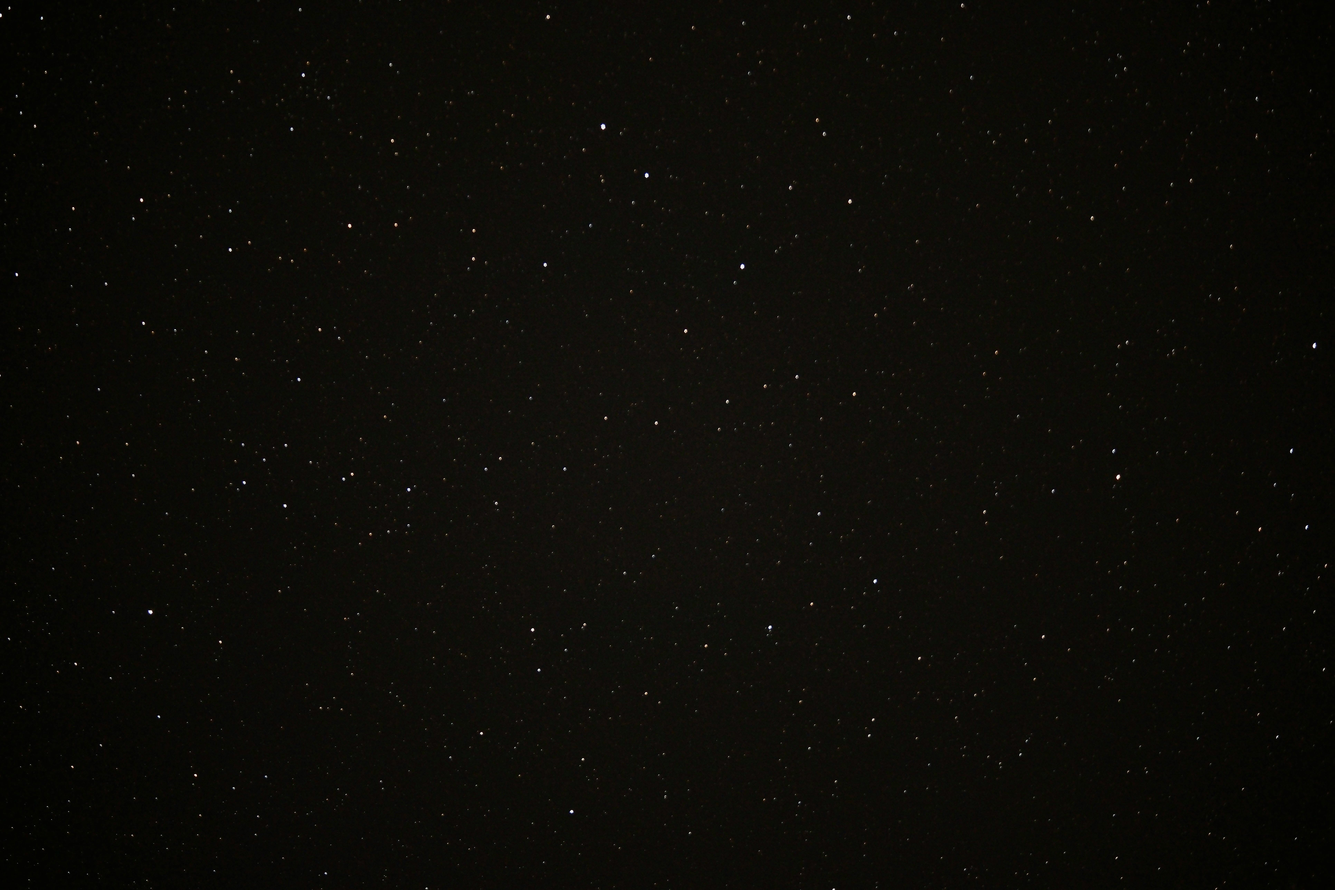
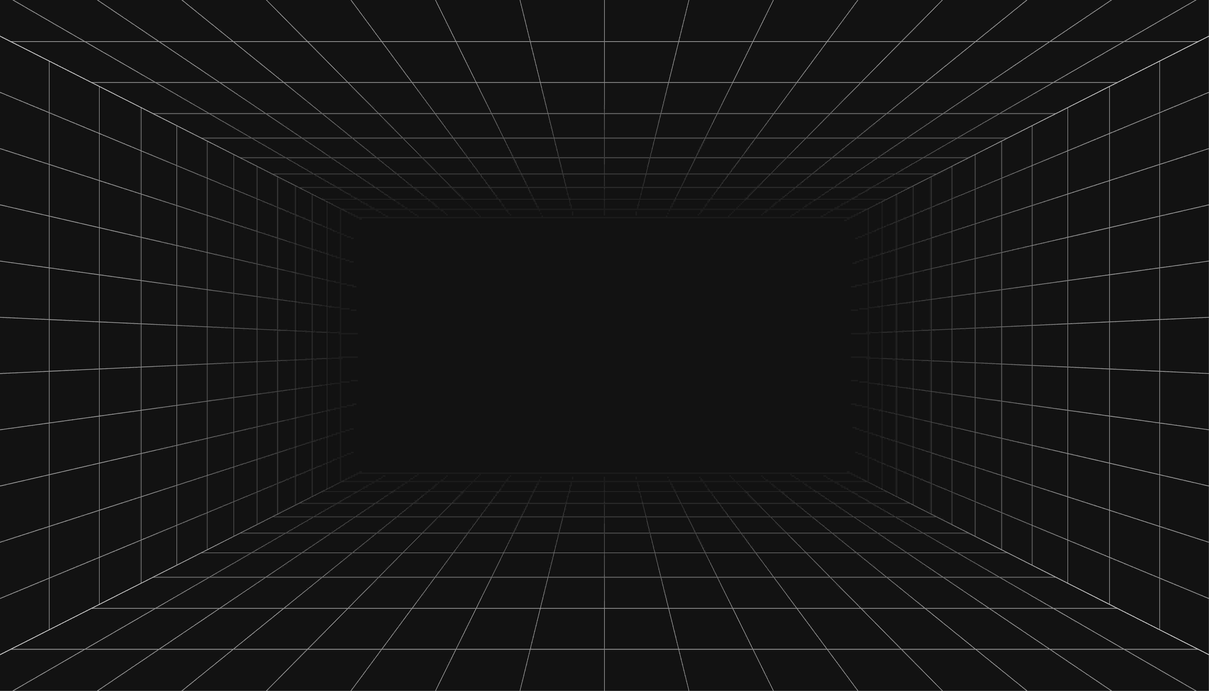
email add, pop ups, loading page, ui enhance

diff --git a/src/components/Navbar.jsx b/src/components/Navbar.jsx
@@ -11,6 +11,7 @@ import {
   Menu,
   CircleX,
   FolderOutput,
+  MailPlus,
 } from "lucide-react";
 import { Link, useLocation } from "react-router";
 // import { CollectionProvider } from "../context/CollectionContext";
@@ -40,22 +41,32 @@ const Navbar = () => {
     {
       id: "github",
       content: <Github size={22} />,
-      link: "https://github.com/shani-tiwari",
+      link: "https://github.com/shani-tiwari/Webtree",
+      title: "Give a star",
     },
     {
       id: "twitter",
       content: <Twitter size={22} />,
       link: "https://x.com/shanidevelops",
+      title: "Let's connect",
     },
     {
       id: "instagram",
       content: <Instagram size={22} />,
       link: "https://instagram.com/shanidevelops",
+      title: "Do follow",
     },
     {
       id: "resources",
       content: <Coffee size={22} />,
       link: "https://buymeacoffee.com/shani_tiwari?new=1",
+      title: "Buy me a coffee",
+    },
+    {
+      id: "mail",
+      content: <MailPlus size={22} />,
+      link: "https://mail.google.com/mail/u/3/#inbox",
+      title: "Send a mail",
     },
 
     // { id: "collection", content: <FolderHeart size={26} />, link: "#collection" },
@@ -71,7 +82,7 @@ const Navbar = () => {
       aria-label="Main Navigation"
       className="fixed top-4 left-1/2 -translate-x-1/2 w-[90%] max-w-[1000px] z-50 px-8 py-1 md:py-3 
         flex justify-between items-center rounded-full font-beba
-        border border-amber-400/30 shadow-xs shadow-amber-700/40 "
+        border border-amber-400/30 shadow-xs shadow-amber-700/40 backdrop-blur-xs "
     >
       {/* Logo */}
       <motion.div
@@ -80,7 +91,9 @@ const Navbar = () => {
         className="flex items-center"
         aria-label="Logo"
       >
-        <p className="text-white text-2xl md:text-3xl selection:bg-amber-600/30 selection:text-white">४</p>
+        <p className="text-white text-2xl md:text-3xl selection:bg-amber-600/30 selection:text-white">
+          ४
+        </p>
       </motion.div>
 
       {/* Desktop Menu */}
@@ -93,14 +106,17 @@ const Navbar = () => {
               target={item.link.startsWith("http") ? "_blank" : "_self"}
               rel="noreferrer"
               aria-label={`Visit ${item.id}`}
-              className="active:scale-95 hover:text-white hover:scale-105 transition-all duration-300"
+              className="group relative active:scale-95 hover:text-white hover:scale-105 transition-all duration-300"
             >
               {item.content}
+              <span className="absolute text-amber-600/90 top-full left-1/2 -translate-x-1/2 mt-2 px-2 py-1 bg-black/70 text-[14px] rounded-md opacity-0 group-hover:opacity-100 transition-opacity duration-200 pointer-events-none border border-amber-500/30 shadow-lg whitespace-nowrap z-50">
+                {item.title}
+              </span>
             </a>
           ))}
         </div>
         <Link
-          className="relative mr-2 ml-2 active:scale-95"
+          className="group relative mr-2 ml-2 active:scale-95"
           to={location.pathname === "/collection" ? "/" : "/collection"}
           rel="noreferrer"
           aria-label={`Visit`}
@@ -119,6 +135,9 @@ const Navbar = () => {
           <sup className="absolute -right-2 top-1 text-amber-500 selection:bg-amber-600/30 selection:text-white">
             {collection.length}
           </sup>
+          <span className="absolute top-full right-0 mt-2 px-2 py-1 bg-black/80 text-amber-600/90 text-[14px] rounded-md opacity-0 group-hover:opacity-100 transition-opacity duration-200 pointer-events-none border border-amber-500/30 shadow-lg whitespace-nowrap z-50">
+            {location.pathname === "/collection" ? "Home" : "Your Collection"}
+          </span>
         </Link>
       </div>
 

diff --git a/src/components/Card.jsx b/src/components/Card.jsx
@@ -31,14 +31,6 @@ const Card = React.memo(
       removeFromCollection(id);
     };
 
-    // Border gradients
-    const borderGradient = `
-    linear-gradient(to right, transparent, rgba(245, 245, 245, 0.9), transparent) top / 100% 1px no-repeat,
-    linear-gradient(to bottom, transparent, rgba(245, 245, 245, 0.9), transparent) left / 1px 100% no-repeat,
-    linear-gradient(to right, transparent, rgba(245, 245, 245, 0.9), transparent) bottom / 100% 1px no-repeat,
-    linear-gradient(to bottom, transparent, rgba(245, 245, 245, 0.9), transparent) right / 1px 100% no-repeat
-  `;
-
     return (
       <a
         href={link}
@@ -49,22 +41,16 @@ const Card = React.memo(
       >
         <article
           key={id}
-          className="relative h-full flex flex-col bg-white/5 backdrop-blur-xs border border-white/50 rounded-lg p-2 transition-all duration-300 
-        hover:scale-[1.02] group cursor-pointer hover:border-white/60 text-white/70 select-none"
+          className="relative h-full flex flex-col bg-white/3 backdrop-blur-xs border border-amber-600/20 rounded-lg p-2 transition-all duration-400 
+         group cursor-pointer hover:border-amber-600/40 text-white/70 select-none  hover:scale-[1.02] "
         >
-          {/* Decorative Lines Container */}
-          <div
-            aria-hidden="true"
-            className="absolute top-0 left-0 right-0 -bottom-px opacity-0 group-hover:opacity-100 transition-opacity duration-500 pointer-events-none"
-            style={{ background: borderGradient }}
-          />
 
-          <div className="flex items-center justify-between gap-3 mb-2 border-b border-white/20 pb-2">
-            <div className="flex items-center justify-center gap-4 ">
-              <div className="w-7 h-7 rounded-full  bg-neutral-800 flex items-center justify-center border border-white/20">
+          <div className="flex items-center justify-between gap-3 mb-1 pb-2">
+            <div className="flex items-center justify-center gap-3 ">
+              <div className="w-7 h-7 rounded-full  bg-neutral-800 flex items-center justify-center border border-amber-600/20">
                 <span className="text-amber-500/70">{title.charAt(0).toUpperCase()}</span>
               </div>
-              <h3 className="font-medium text-[--color-text-primary]  tracking-wide transition-colors duration-300">
+              <h3 className="font-medium text-gray-200  md:tracking-wider transition-colors duration-300">
                 {title}
               </h3>
             </div>
@@ -83,7 +69,7 @@ const Card = React.memo(
               {!allowRemove && (
                 <span
                   onClick={handleAddKey}
-                  className="group/icon relative flex items-center justify-center text-white/70 hover:scale-110 active:scale-95 transition-all duration-300 hover:text-amber-400 z-30"
+                  className="group/icon relative flex items-center justify-center text-white/70 hover:scale-110 active:scale-100 transition-all duration-300 hover:text-amber-400 z-30"
                 >
                   {isCollected ? (
                     <FolderCheck
@@ -101,6 +87,10 @@ const Card = React.memo(
               )}
             </div>
           </div>
+
+          {/* border */}
+          <div className="w-full h-px bg-linear-to-r from-transparent via-amber-500/40 to-transparent mb-1"></div>
+
           <p className="text-sm text-white/60 leading-relaxed font-light grow">
             {desc}
           </p>

diff --git a/src/pages/Home.jsx b/src/pages/Home.jsx
@@ -2,25 +2,34 @@ import { useEffect, useState } from "react";
 import Navbar from "../components/Navbar";
 import SideBtn from "../components/SideBtn";
 import Card from "../components/Card";
-// eslint-disable-next-line no-unused-vars
-import { easeIn, motion } from "motion/react";
+import SkeletonHome from "../components/SkeletonHome";
 
 export default function Home() {
   const [data, setData] = useState([]);
   const [carddata, setcardData] = useState([]);
   const [activeCategory, setActiveCategory] = useState("ui_components");
+  const [loading, setLoading] = useState(true);
 
   useEffect(() => {
     async function getData() {
+      // Simulate a small delay to show skeleton if data loads too fast
+      // const delay = (ms) => new Promise(resolve => setTimeout(resolve, ms));
+      // await delay(1000);
+
       await fetch("./data/data.json")
         .then((res) => res.json())
         .then((data) => {
           setData(data);
           setcardData(data["ui_components"]);
+          setLoading(false);
         });
     }
     getData();
   }, []);
+
+  if (loading) {
+    return <SkeletonHome />;
+  }
 
   return (
     <>
@@ -37,11 +46,11 @@ export default function Home() {
             : ""}
         </div>
 
-        <nav className="h-16 md:h-22 z-90 backdrop-blur-xs fixed top-0 left-1/2 -translate-x-1/2 w-full max-w-[1000px]">
+        <nav className="h-16 md:h-22 z-90  fixed top-0 left-1/2 -translate-x-1/2 w-full max-w-[1000px]">
           <Navbar />
         </nav>
 
-        <header className="text-white/60 text-center font-beba w-full backdrop-blur-xl md:backdrop-blur-none pt-20 md:pt-32">
+        <header className="text-white/80 text-center font-beba w-full backdrop-blur-xl md:backdrop-blur-none pt-20 md:pt-28">
           <h1 className="md:text-xl tracking-wider selection:bg-amber-600/30 selection:text-white">
             ⁕ Collection of Frontend Resources ⁕
           </h1>
@@ -52,7 +61,7 @@ export default function Home() {
             aria-label="Category selection"
             className="z-40 sticky md:top-44 top-16 shrink-0 grid grid-cols-2 rounded-xl
             md:grid-cols-1 gap-2 md:gap-0 w-full md:w-fit h-fit px-2 py-3 pt-5 
-            text-white md:border border-white/40 bg-[--color-sidebar-bg] backdrop-blur-md shadow-lg "
+            text-white md:border border-white/40 bg-[--color-sidebar-bg] backdrop-blur-md shadow-lg transition-all duration-300"
           >
             {Object.keys(data).map((name, index) => (
               <SideBtn

diff --git a/src/components/SkeletonHome.jsx b/src/components/SkeletonHome.jsx
@@ -1,0 +1,54 @@
+import React from "react";
+import Skeleton, { SkeletonTheme } from "react-loading-skeleton";
+import "react-loading-skeleton/dist/skeleton.css";
+
+const SkeletonHome = () => {
+  return (
+    <SkeletonTheme baseColor="#333" highlightColor="#555">
+      <main className="min-h-screen h-fit max-w-screen flex flex-col gap-10 md:gap-10">
+        {/* Navbar Skeleton */}
+        <nav className="h-16 md:h-22 z-90 fixed top-0 left-1/2 -translate-x-1/2 w-full max-w-[1000px] px-8 py-3 flex justify-between items-center rounded-full border border-white/10 bg-black/50 backdrop-blur-md mt-4">
+          <Skeleton circle width={40} height={40} />
+          <div className="hidden md:flex gap-4">
+            <Skeleton width={30} height={30} circle />
+            <Skeleton width={30} height={30} circle />
+          </div>
+          <div className="md:hidden">
+            <Skeleton width={30} height={30} circle />
+          </div>
+        </nav>
+
+        <section className="grow w-full flex flex-col md:flex-row lg:flex-row justify-center gap-10 px-1 md:px-14">
+          {/* Sidebar Skeleton */}
+          <aside className="shrink-0 w-full md:w-64 md:pt-30 pt-20 h-fit px-2 py-3 flex flex-col gap-2">
+            {Array(8)
+              .fill(0)
+              .map((_, i) => (
+                <Skeleton key={i} height={40} borderRadius={8} />
+              ))}
+          </aside>
+
+          {/* Cards Grid Skeleton */}
+          <section className="hidden md:grow md:grid grid-cols-1 md:grid-cols-2 lg:grid-cols-4 gap-[10px] md:mt-30">
+            {Array(12)
+              .fill(0)
+              .map((_, i) => (
+                <div
+                  key={i}
+                  className="aspect-square bg-black/40 rounded-lg p-3 flex flex-col justify-between border border-white/5"
+                >
+                  <div className="flex flex-col gap-3">
+                    <Skeleton circle width={40} height={40} />
+                    <Skeleton width={`60%`} height={20} />
+                  </div>
+                  <Skeleton width={`90%`} height={15} count={2} />
+                </div>
+              ))}
+          </section>
+        </section>
+      </main>
+    </SkeletonTheme>
+  );
+};
+
+export default SkeletonHome;

diff --git a/src/components/SideBtn.jsx b/src/components/SideBtn.jsx
@@ -15,7 +15,7 @@ const SideBtn = React.memo(
         className={`
           ${
             isActive
-              ? " bg-linear-to-bl from-amber-500/80 to-amber-600/40 "
+              ? " bg-linear-to-bl from-amber-600/30 to-amber-700/30 "
               : " bg-zinc-800/20 hover:bg-zinc-800/40 shadow-white/15 "
           }
           relative md:text-start group border border-white/50 py-1 px-3 mb-2 rounded-md

diff --git a/dev-dist/sw.js b/dev-dist/sw.js
@@ -79,7 +79,7 @@ define(['./workbox-5a5d9309'], (function (workbox) { 'use strict';
    */
   workbox.precacheAndRoute([{
     "url": "index.html",
-    "revision": "0.jdlctep4aho"
+    "revision": "0.jac6bu6uhm8"
   }], {});
   workbox.cleanupOutdatedCaches();
   workbox.registerRoute(new workbox.NavigationRoute(workbox.createHandlerBoundToURL("index.html"), {

diff --git a/src/App.jsx b/src/App.jsx
@@ -33,6 +33,7 @@ function App() {
             </Routes>
           </React.Suspense>
         </div>
+        
       </div>
     </>
   );
